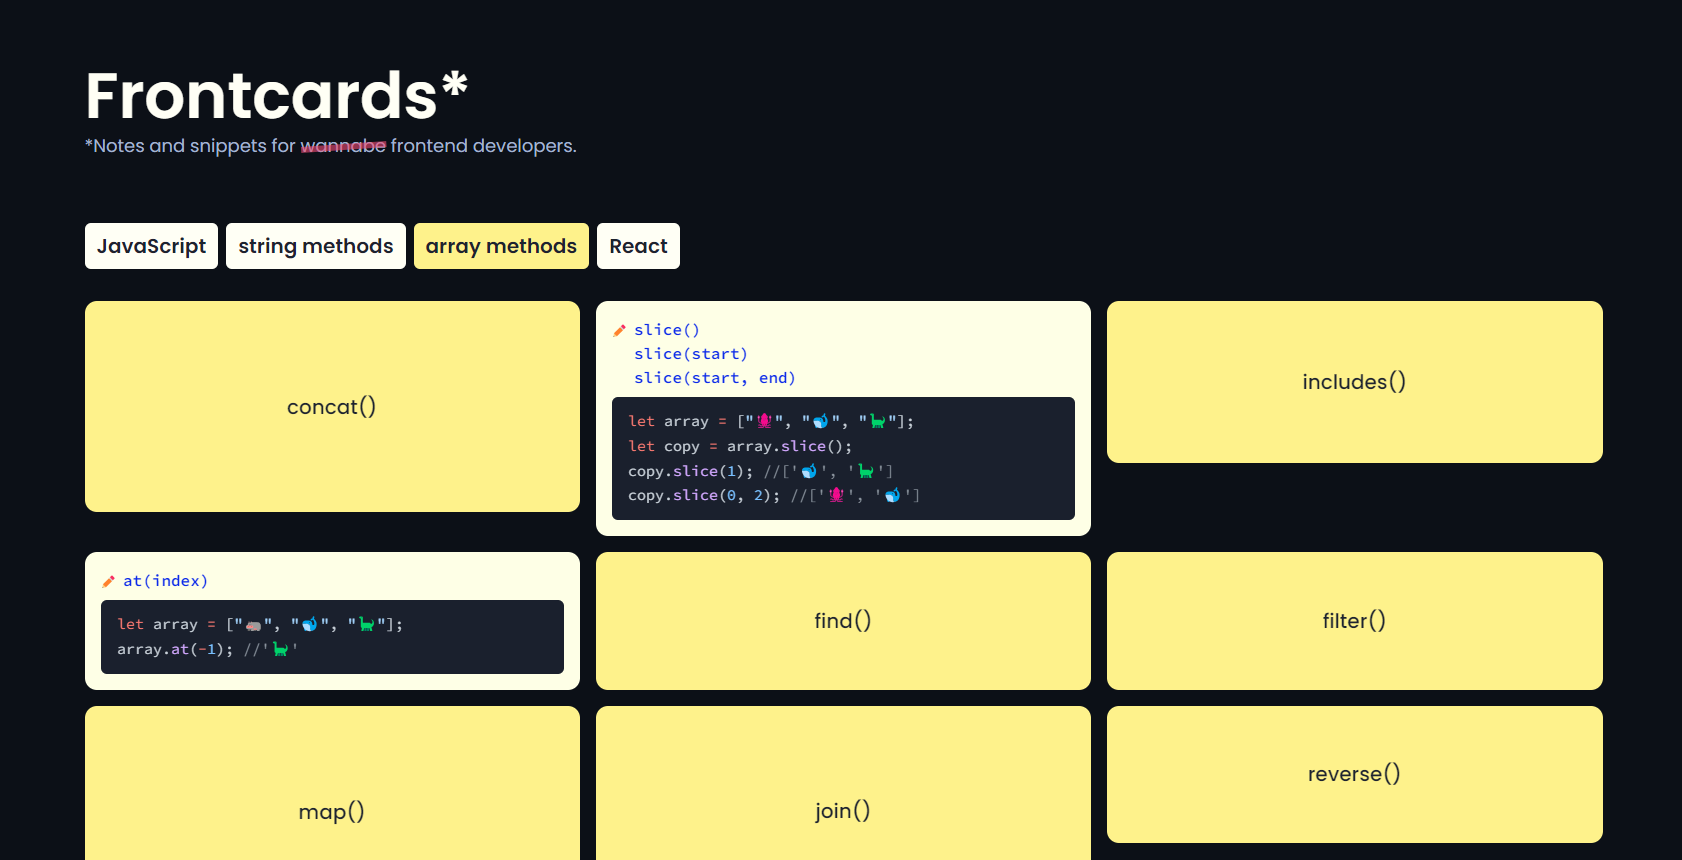
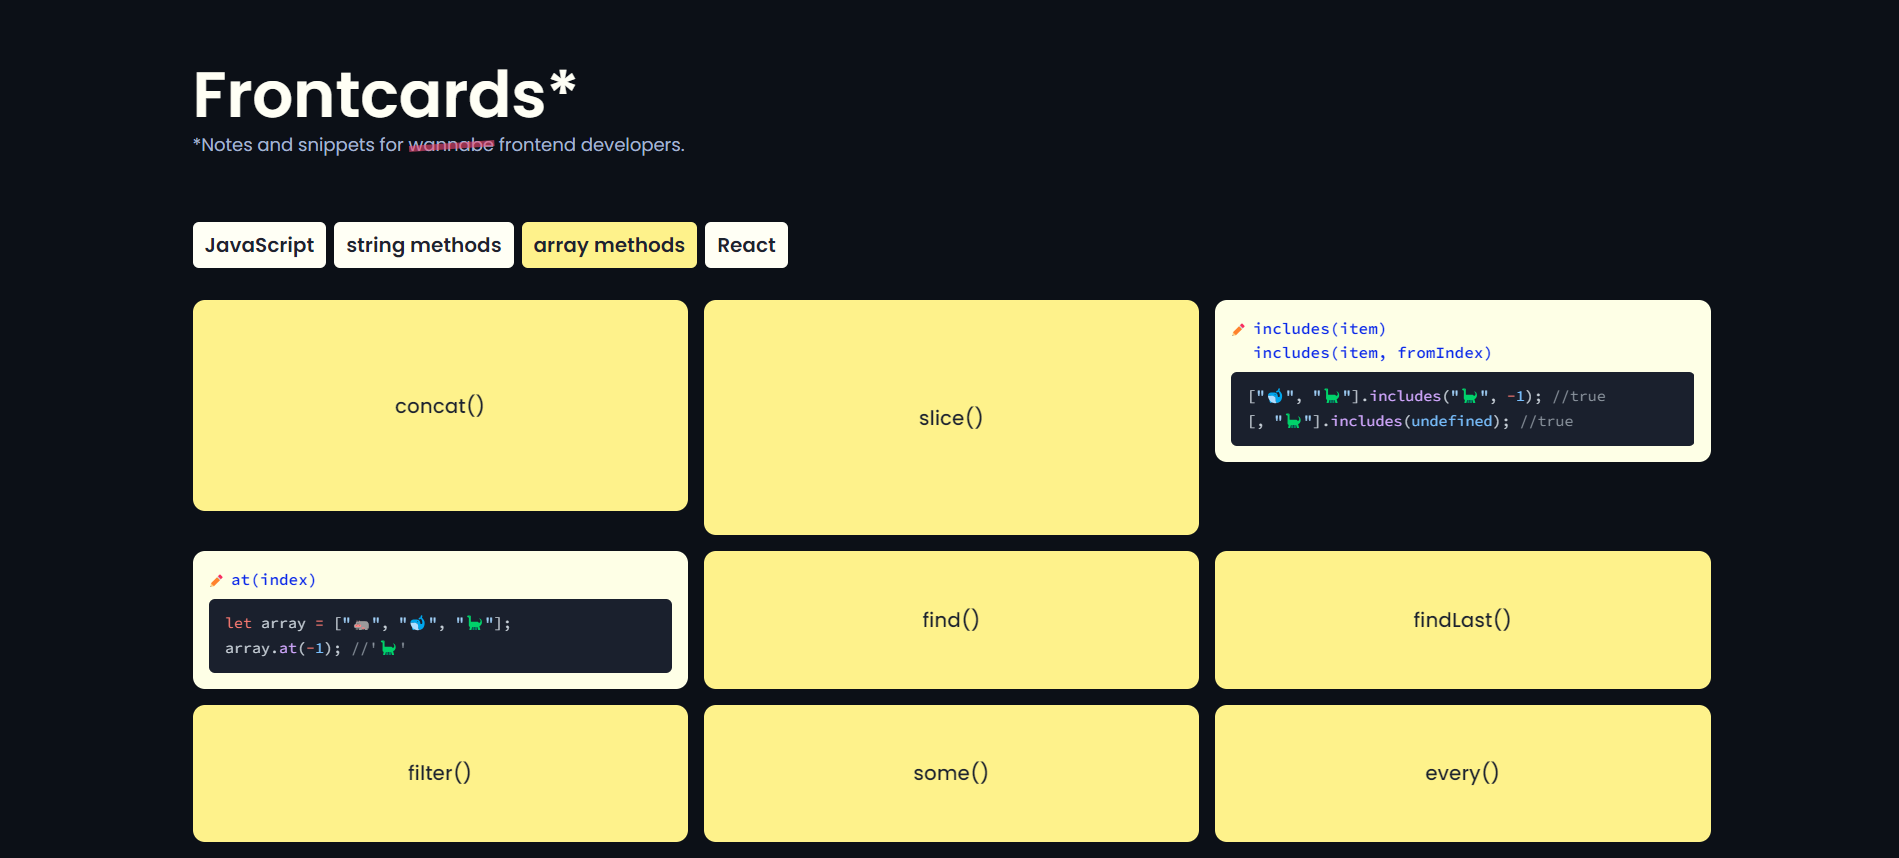
Update data and screenshot

diff --git a/src/data/javascript/data.jsx b/src/data/javascript/data.jsx
@@ -18,6 +18,27 @@ export const CARDS = [
   },
   {
     category: 'javascript',
+    front: 'className vs classList',
+    back: [
+      <>
+        the property <code>className</code> returns the value of the
+        element&apos;s <code>class</code> attribute (a{' '}
+        <span className="term">string</span>)
+      </>,
+      <>
+        <code>classList</code> returns a collection (
+        <span className="term">DOMTokenList</span>) of the element&apos;s
+        classes
+      </>,
+      <>
+        <code>classList</code> can be modified or checked with the methods{' '}
+        <code>add()</code>, <code>remove()</code>, <code>replace()</code>,{' '}
+        <code>toggle()</code>, <code>contains()</code>
+      </>,
+    ],
+  },
+  {
+    category: 'javascript',
     front: 'function declaration vs function expression',
     back: [
       <>

diff --git a/src/data/string-methods/data.jsx b/src/data/string-methods/data.jsx
@@ -6,7 +6,9 @@ import {
   STR_SPLIT,
   STR_INCLUDES,
   STR_REPEAT,
+  STR_REPLACE,
   STR_SEARCH,
+  STR_MATCH,
   STR_AT,
   STR_PADSTART,
   STR_PADEND,
@@ -98,11 +100,31 @@ export const CARDS = [
   },
   {
     category: 'string-methods',
+    front: 'replace()',
+    back: [
+      <>
+        <code className="term">{`replace(regexp, str)`}</code>
+        <Snippet>{STR_REPLACE}</Snippet>
+      </>,
+    ],
+  },
+  {
+    category: 'string-methods',
     front: 'search()',
     back: [
       <>
         <code className="term">{`search(regexp)`}</code>
         <Snippet>{STR_SEARCH}</Snippet>
+      </>,
+    ],
+  },
+  {
+    category: 'string-methods',
+    front: 'match()',
+    back: [
+      <>
+        <code className="term">{`match(regexp)`}</code>
+        <Snippet>{STR_MATCH}</Snippet>
       </>,
     ],
   },

diff --git a/src/data/string-methods/snippets.jsx b/src/data/string-methods/snippets.jsx
@@ -28,8 +28,21 @@ export const STR_REPEAT = `\
 "hi".repeat(4); //'hihihihi'\
 `;
 
+export const STR_REPLACE = `\
+"hello world !".replace(/\\s/, "_")
+//'hello_world !'
+"hello world !".replace(/\\s/g, "_")
+//'hello_world_!'\
+`;
+
 export const STR_SEARCH = `\
+"Hello World".search(/[A-Z]/); //0
 "hello world".search(/[A-Z]/); //-1\
+`;
+
+export const STR_MATCH = `\
+"Hello World".match(/[A-Z]/g); //['H', 'W']
+"hello world".match(/[A-Z]/g); //null\
 `;
 
 export const STR_AT = `\
